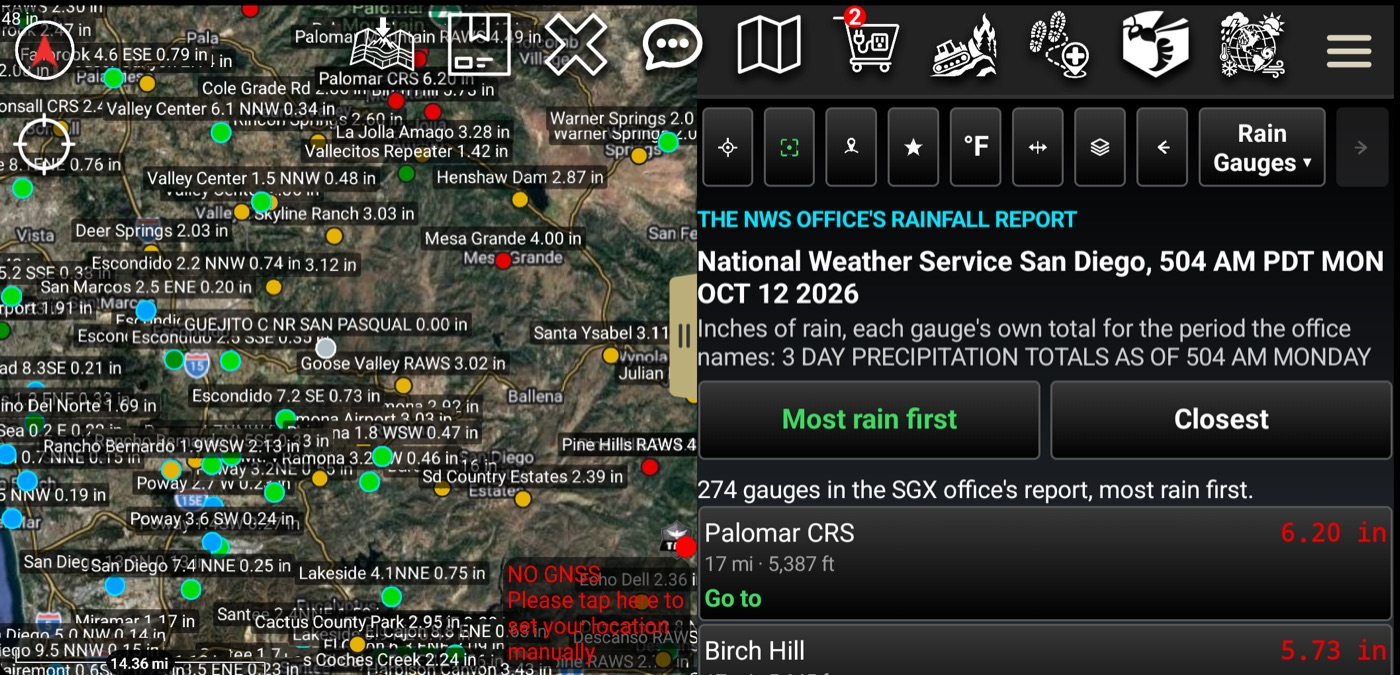
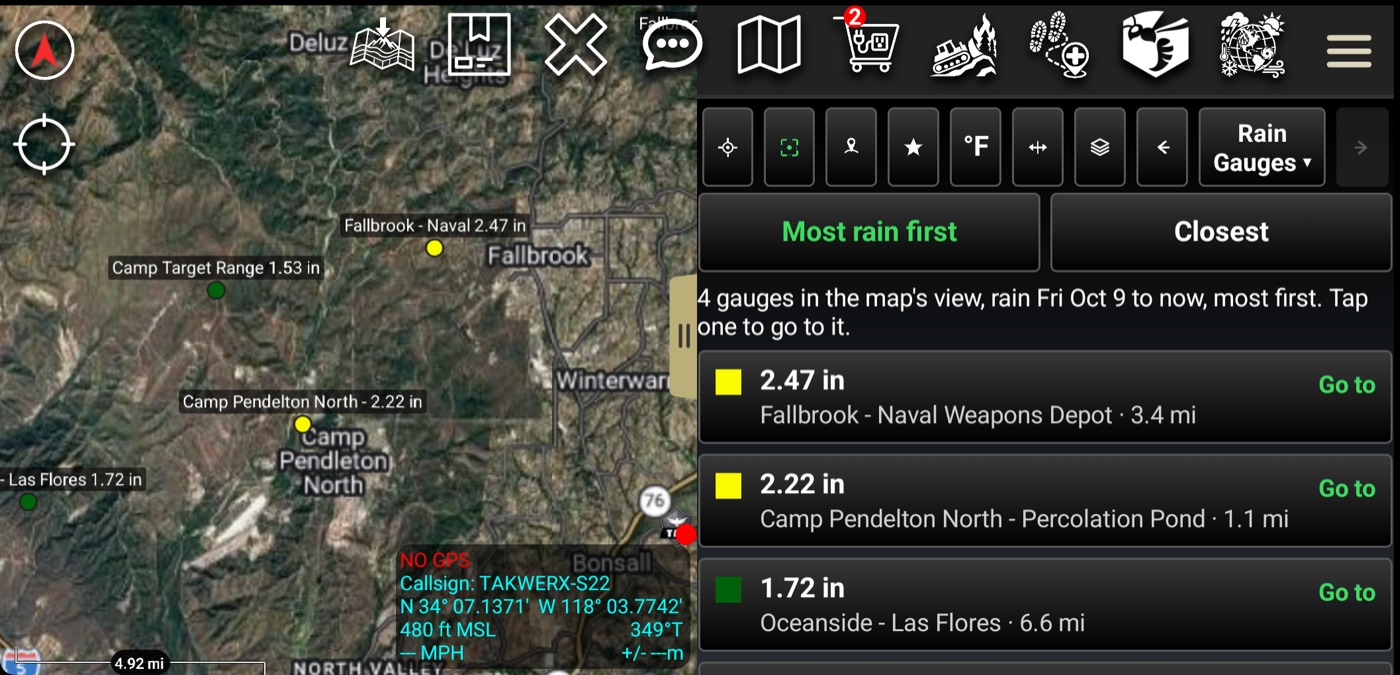
Atmosphere 0.15: pictures from the signed build
Rain Totals and Rain Gauges blocks, the Rain Gauges page and the office's
report table, gauges over the 7-day shading, the SAWTI page with its switch
and its zone outlined on the map, and the page tops that now start with
their layer switch (Storm Reports, Buoys, Stations, Spot Weather Forecast).
Guide and manual carry them; the manual compiles to 73 pages on typst 0.13.1.

diff --git a/docs/USER_GUIDE.md b/docs/USER_GUIDE.md
@@ -313,6 +313,8 @@ the SAWTI layer on. While the page is open, the zone it shows has a white
 outline on the map, so you can find it among the others; leave the page and the
 outline goes.
 
+<img src="screenshots/123_sawti_outline.jpg" width="560">
+
 <img src="screenshots/76_sawti_page_top.png" width="420"> <img src="screenshots/77_sawti_page_middle.png" width="420">
 
 <img src="screenshots/78_sawti_page_table.png" width="420"> <img src="screenshots/79_sawti_zone_picker.png" width="420">
@@ -511,6 +513,11 @@ the states under it are sent with the dates, not your position.
 
 <img src="screenshots/110_raingauges_block.jpg" width="420">
 
+With both layers on the same time, each dot sits on shading of its own color, so
+a gauge that caught more or less than the radar shows stands out:
+
+<img src="screenshots/113_rain_7d_gauges_on_totals.jpg" width="560">
+
 **The Rain Gauges page** has the Totals button at the top, then the gauges in
 the map's view, **Most rain first** or **Closest** to your point, with the
 miles on each row and a green **Go to** that flies the map in close and opens
@@ -523,7 +530,9 @@ offices publish such a report, Los Angeles and San Diego among them; it needs
 NWS as the forecast service. Its gauges are among the ones on the map, so the
 report is not drawn there.
 
-<img src="screenshots/111_rain_page.jpg" width="420">
+<img src="screenshots/111_rain_page.jpg" width="420"> <img src="screenshots/114_rain_gauges_7d.jpg" width="420">
+
+<img src="screenshots/122_rain_report_table.jpg" width="560">
 
 ## 11. Spot Weather Forecast
 
